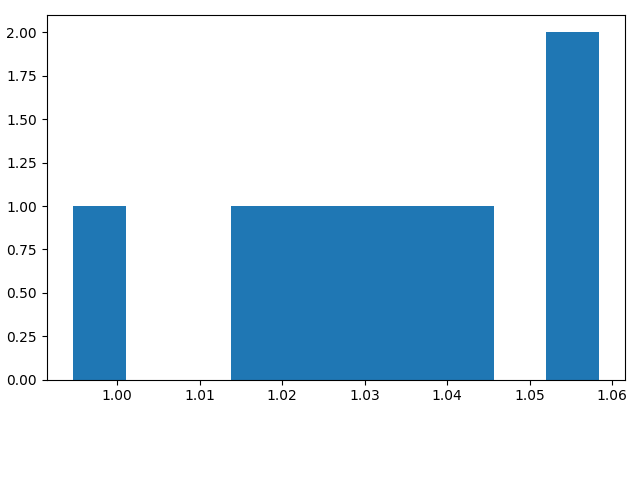
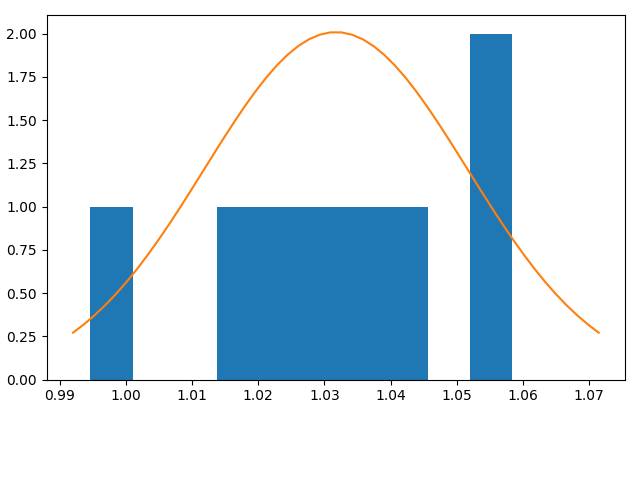
Update histogram

diff --git a/2-analyze_supported_combos.py b/2-analyze_supported_combos.py
@@ -1,6 +1,7 @@
 import numpy as np
 import matplotlib.pyplot as plt
 import json
+import scipy.stats
 from util import calculate_max_chain_angle
 
 with open(f"all_shifters.json") as f:
@@ -92,6 +93,10 @@ plt.ylim(motion_multiplier_min - motion_multiplier_stdev, motion_multiplier_max 
 plt.savefig(f"motion_multiplier.png")
 
 
+curve = scipy.stats.norm(motion_multiplier_avg, motion_multiplier_stdev)
+x = np.linspace(motion_multiplier_min, motion_multiplier_max)
+
 plt.clf()
 plt.hist(motion_multipliers)
+plt.plot(x, curve.pdf(x)/10)
 plt.savefig(f"motion_multiplier_histogram.png")
